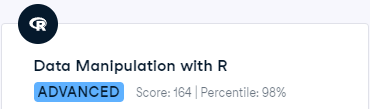
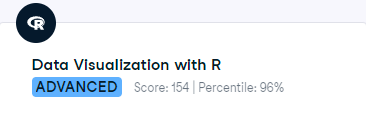
updated data vis for R score

Changed region(s): [[0.0902, 0.4679, 0.7814, 0.9358], [0.0, 0.0, 0.9918, 0.4128], [0.9918, 0.2202, 1.0, 1.0]]

diff --git a/README.md b/README.md
@@ -61,7 +61,7 @@ DataCamp provides assessments for a range of topics within data science, includi
 | R Programming                             | 94%           |
 | Machine Learning Fundamentals in R        | 98%           |
 | Statistics Fundamentals with R            | 97%           |
-| Data Visualization with R                 | 87%           |
+| Data Visualization with R                 | 96%           |
 | Data Manipulation with R                  | 98%           |
 | Importing and Cleaning Data with R        | 99%           |
 
